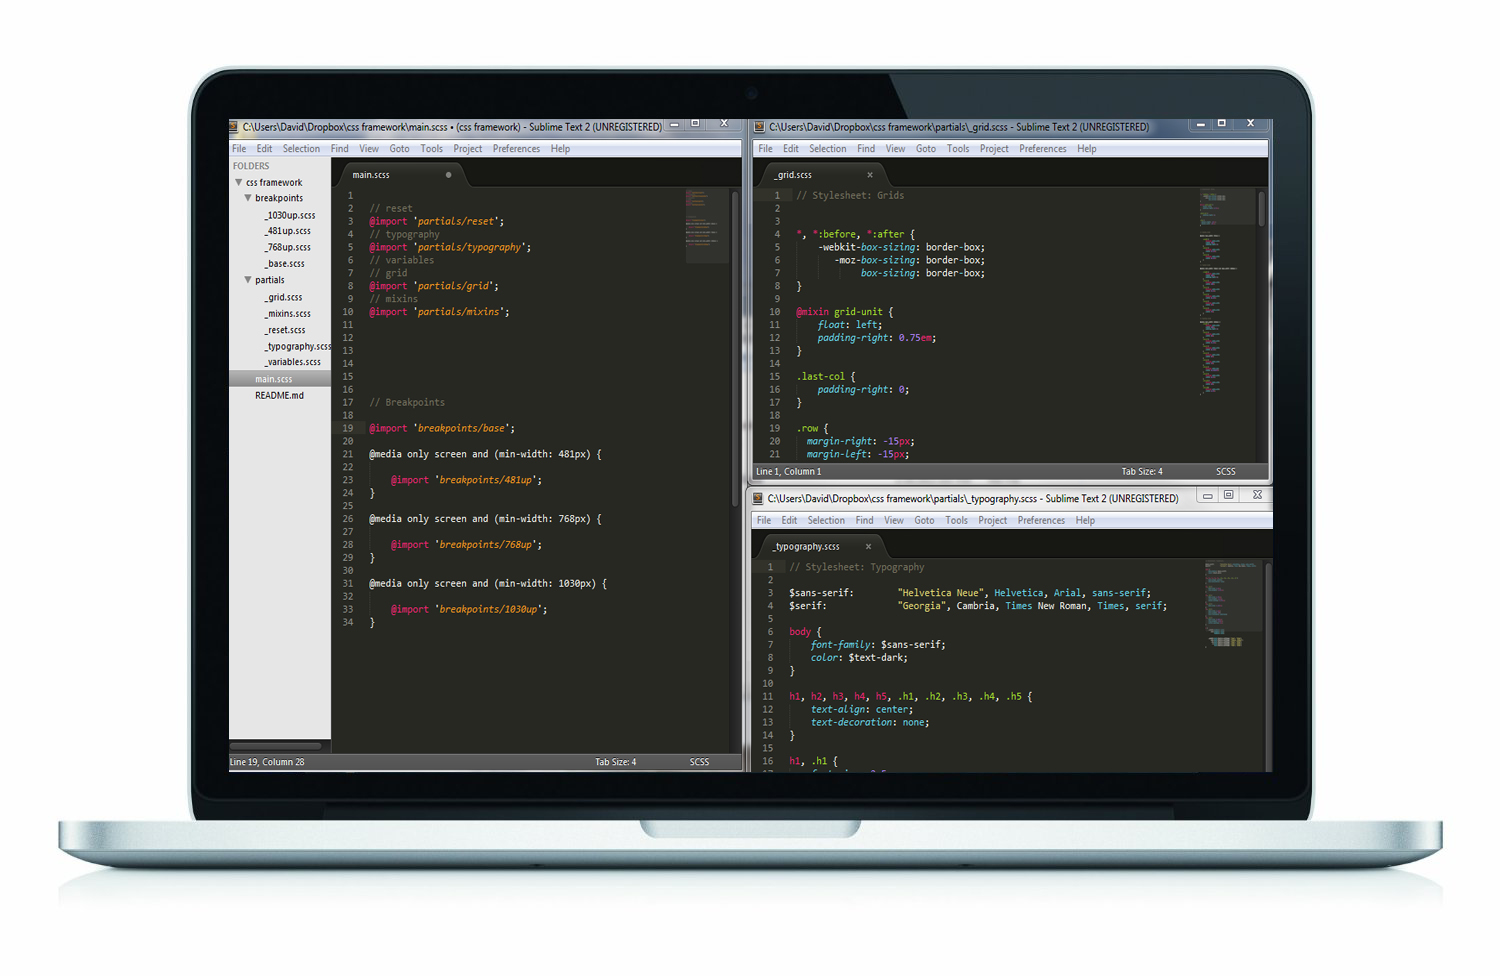
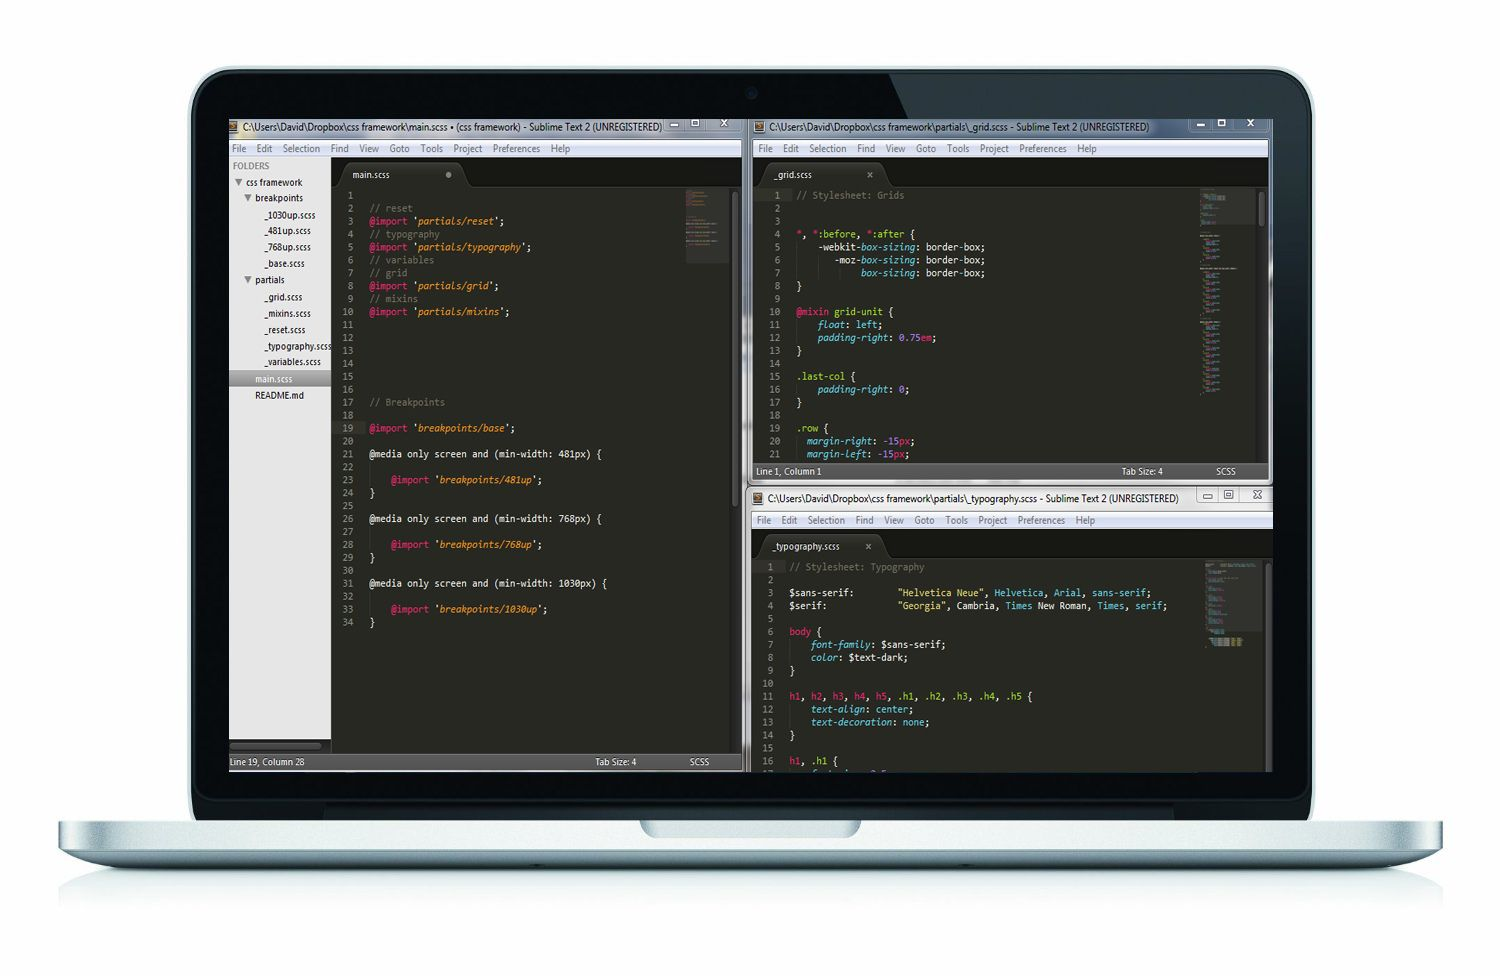
add co and compress images

diff --git a/app/assets/stylesheets/flexslider.scss b/app/assets/stylesheets/flexslider.scss
@@ -301,6 +301,7 @@ html[xmlns] .flexslider .slides {
 	margin-left: 20px;
 }
 
+
 @media screen and (min-width: 768px) {
 	.flexslider .slides img {
 		width: 75%;

diff --git a/app/assets/stylesheets/custom.scss b/app/assets/stylesheets/custom.scss
@@ -13,7 +13,9 @@ $primary-text-color: #333;
 	box-sizing: border-box;
 
 }
-
+.hidden {
+	display: none;
+}
 #wrapper {
 	width: 100%;
 	height: 500px;

diff --git a/app/assets/javascripts/application.js b/app/assets/javascripts/application.js
@@ -12,5 +12,6 @@
 //
 //= require jquery
 //= require jquery_ujs
+//= require fancybox
 //= require turbolinks
 //= require_tree .

diff --git a/app/assets/stylesheets/application.css b/app/assets/stylesheets/application.css
@@ -12,4 +12,5 @@
  *
  *= require_tree .
  *= require_self
+ *= require fancybox
  */
